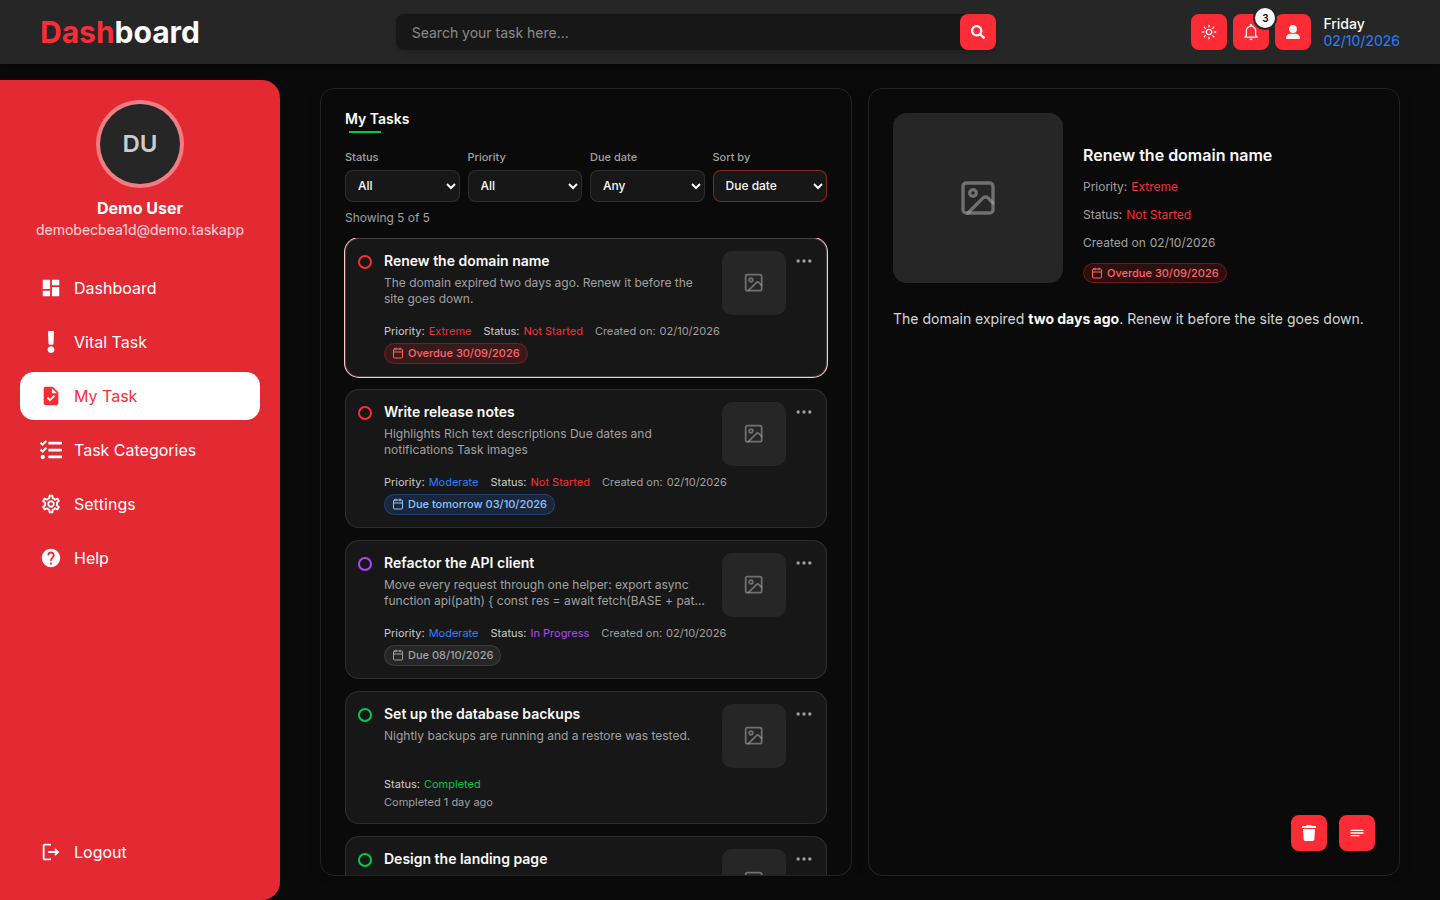
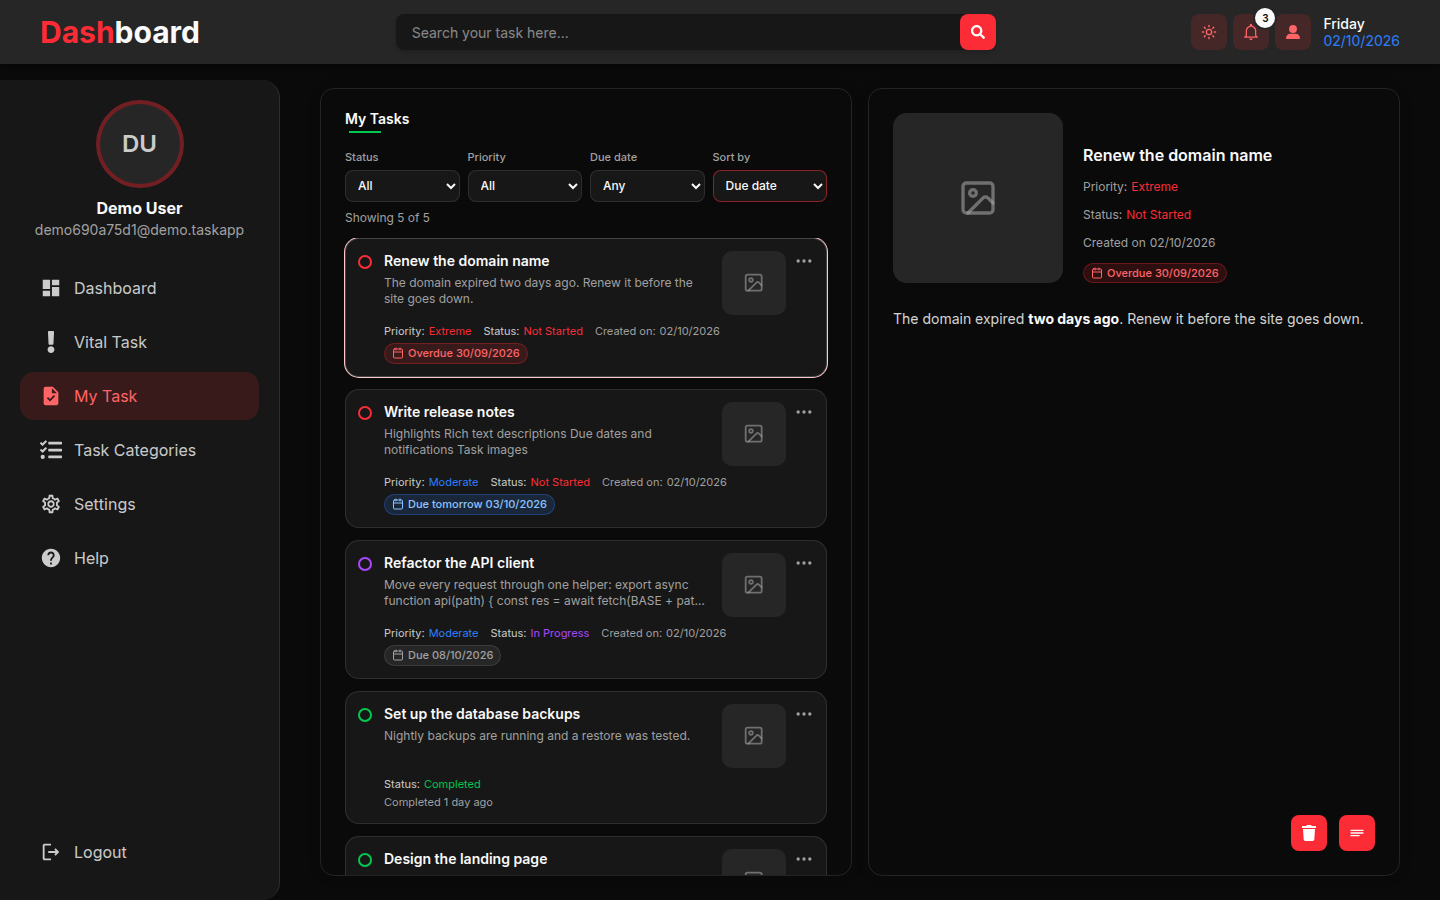
Keep auth pages light and calm the red in dark mode
- Login and register always render in light mode (their red
  illustration only works there); the saved theme is left untouched
  and applies again on the dashboard. Their theme toggle is removed.
- Dark mode sidebar uses the neutral card surface with red only as an
  accent (active link, avatar ring); navbar buttons get a soft red tint
- README screenshots updated

Claude-Session: https://claude.ai/code/session_01RNcLxtQrxQUoZKbcuZQDPC

Changed region(s): [[0.0, 0.0622, 0.2188, 1.0], [0.8125, 0.0, 0.9062, 0.0622]]

diff --git a/src/components/DashboardNavigation.tsx b/src/components/DashboardNavigation.tsx
@@ -19,14 +19,14 @@ export default function DashboardNavigation({ user, onNavigate }: { user: UserTy
   const LogoutIcon = logout?.icon;
 
   return (
-    <nav className="flex h-full flex-col gap-6 rounded-r-2xl bg-red-500/90 px-4 py-6 text-white xl:px-5">
+    <nav className="flex h-full flex-col gap-6 rounded-r-2xl bg-red-500/90 px-4 py-6 text-white xl:px-5 dark:border-r dark:border-border dark:bg-card dark:text-foreground">
       <div className="flex flex-col items-center gap-3 text-center">
-        <UserAvatar user={user} className="size-20 text-2xl ring-4 ring-white/40" />
+        <UserAvatar user={user} className="size-20 text-2xl ring-4 ring-white/40 dark:ring-red-500/40" />
         <div className="min-w-0 max-w-full">
           <p className="truncate font-bold">
             {user?.firstName} {user?.lastName}
           </p>
-          <p className="truncate text-sm text-white/80">{user?.email}</p>
+          <p className="truncate text-sm text-white/80 dark:text-muted-foreground">{user?.email}</p>
         </div>
       </div>
 
@@ -42,7 +42,9 @@ export default function DashboardNavigation({ user, onNavigate }: { user: UserTy
               aria-current={active ? 'page' : undefined}
               className={cn(
                 'flex items-center gap-3 rounded-xl px-5 py-3 transition-colors',
-                active ? 'bg-white text-red-500' : 'hover:bg-white/15',
+                active
+                  ? 'bg-white text-red-500 dark:bg-red-500/15 dark:text-red-400'
+                  : 'hover:bg-white/15 dark:text-foreground/80 dark:hover:bg-muted dark:hover:text-foreground',
               )}
             >
               <Icon size={22} className="shrink-0" />
@@ -56,7 +58,7 @@ export default function DashboardNavigation({ user, onNavigate }: { user: UserTy
         <form action={logoutAction}>
           <button
             type="submit"
-            className="flex w-full cursor-pointer items-center gap-3 rounded-xl px-5 py-3 transition-colors hover:bg-white/15"
+            className="flex w-full cursor-pointer items-center gap-3 rounded-xl px-5 py-3 transition-colors hover:bg-white/15 dark:text-foreground/80 dark:hover:bg-muted dark:hover:text-foreground"
           >
             <LogoutIcon size={22} className="shrink-0" />
             <span>{logout.title}</span>

diff --git a/src/components/Navbar.tsx b/src/components/Navbar.tsx
@@ -30,7 +30,7 @@ export default function Navbar({ user, tasks }: { user: UserType | null; tasks: 
           <Link
             href="/dashboard/search"
             aria-label="Search tasks"
-            className="flex size-9 items-center justify-center rounded-md bg-red-500 text-[#f3f3f3] hover:bg-red-600 md:hidden"
+            className="flex size-9 items-center justify-center rounded-md bg-red-500 text-[#f3f3f3] hover:bg-red-600 dark:bg-red-500/15 dark:text-red-400 dark:hover:bg-red-500/25 md:hidden"
           >
             <FaSearch className="text-sm" />
           </Link>
@@ -39,7 +39,7 @@ export default function Navbar({ user, tasks }: { user: UserType | null; tasks: 
           <Link
             href="/dashboard/settings"
             aria-label="Account settings"
-            className="flex size-9 items-center justify-center rounded-md bg-red-500 text-[#f3f3f3] hover:bg-red-600"
+            className="flex size-9 items-center justify-center rounded-md bg-red-500 text-[#f3f3f3] hover:bg-red-600 dark:bg-red-500/15 dark:text-red-400 dark:hover:bg-red-500/25"
           >
             <FaUserLarge className="text-sm" />
           </Link>

diff --git a/src/components/ThemeProvider.tsx b/src/components/ThemeProvider.tsx
@@ -1,9 +1,23 @@
 'use client';
+import { usePathname } from 'next/navigation';
 import { ThemeProvider as NextThemesProvider } from 'next-themes';
 
+// The login and register pages sit on a fixed red illustration that only
+// works in light mode, so they ignore the saved theme without changing it.
+const LIGHT_ONLY_PATHS = ['/login', '/register'];
+
 export default function ThemeProvider({ children }: { children: React.ReactNode }) {
+  const pathname = usePathname();
+  const forcedTheme = LIGHT_ONLY_PATHS.includes(pathname) ? 'light' : undefined;
+
   return (
-    <NextThemesProvider attribute="class" defaultTheme="system" enableSystem disableTransitionOnChange>
+    <NextThemesProvider
+      attribute="class"
+      defaultTheme="system"
+      enableSystem
+      disableTransitionOnChange
+      forcedTheme={forcedTheme}
+    >
       {children}
     </NextThemesProvider>
   );

diff --git a/src/components/NotificationsMenu.tsx b/src/components/NotificationsMenu.tsx
@@ -27,7 +27,7 @@ export default function NotificationsMenu({ tasks }: { tasks: TaskType[] }) {
         <button
           type="button"
           aria-label={items.length ? `Notifications, ${items.length} due` : 'Notifications'}
-          className="relative flex size-9 cursor-pointer items-center justify-center rounded-md bg-red-500 text-[#f3f3f3] hover:bg-red-600"
+          className="relative flex size-9 cursor-pointer items-center justify-center rounded-md bg-red-500 text-[#f3f3f3] hover:bg-red-600 dark:bg-red-500/15 dark:text-red-400 dark:hover:bg-red-500/25"
         >
           <IoMdNotificationsOutline className="text-xl" />
           {items.length > 0 && (

diff --git a/src/components/MobileNavigation.tsx b/src/components/MobileNavigation.tsx
@@ -19,7 +19,7 @@ export default function MobileNavigation({ user }: { user: UserType | null }) {
           <HiOutlineMenuAlt2 className="size-6" />
         </button>
       </SheetTrigger>
-      <SheetContent side="left" className="bg-transparent text-white">
+      <SheetContent side="left" className="bg-transparent text-white dark:text-foreground">
         <SheetTitle className="sr-only">Navigation</SheetTitle>
         <SheetDescription className="sr-only">Dashboard pages and account actions</SheetDescription>
         <DashboardNavigation user={user} onNavigate={() => setOpen(false)} />

diff --git a/src/components/ThemeToggle.tsx b/src/components/ThemeToggle.tsx
@@ -23,7 +23,7 @@ export default function ThemeToggle({ className }: { className?: string }) {
       aria-label={isDark ? 'Switch to light mode' : 'Switch to dark mode'}
       title={isDark ? 'Light mode' : 'Dark mode'}
       className={cn(
-        'flex size-9 cursor-pointer items-center justify-center rounded-md bg-red-500 text-[#f3f3f3] hover:bg-red-600',
+        'flex size-9 cursor-pointer items-center justify-center rounded-md bg-red-500 text-[#f3f3f3] hover:bg-red-600 dark:bg-red-500/15 dark:text-red-400 dark:hover:bg-red-500/25',
         className,
       )}
     >

diff --git a/src/app/(auth)/layout.tsx b/src/app/(auth)/layout.tsx
@@ -1,6 +1,5 @@
 import BgAuth from '@/assets/img/bg-auth.png';
 import ServerStatus from '@/components/ServerStatus';
-import ThemeToggle from '@/components/ThemeToggle';
 
 export default function AuthLayout({
   children,
@@ -12,7 +11,6 @@ export default function AuthLayout({
       className="flex min-h-dvh items-center justify-center bg-red-500/90 bg-cover bg-center p-4 sm:p-8"
       style={{ backgroundImage: `url(${BgAuth.src})` }}
     >
-      <ThemeToggle className="fixed top-4 right-4 shadow-md" />
       {children}
       <ServerStatus />
     </div>
